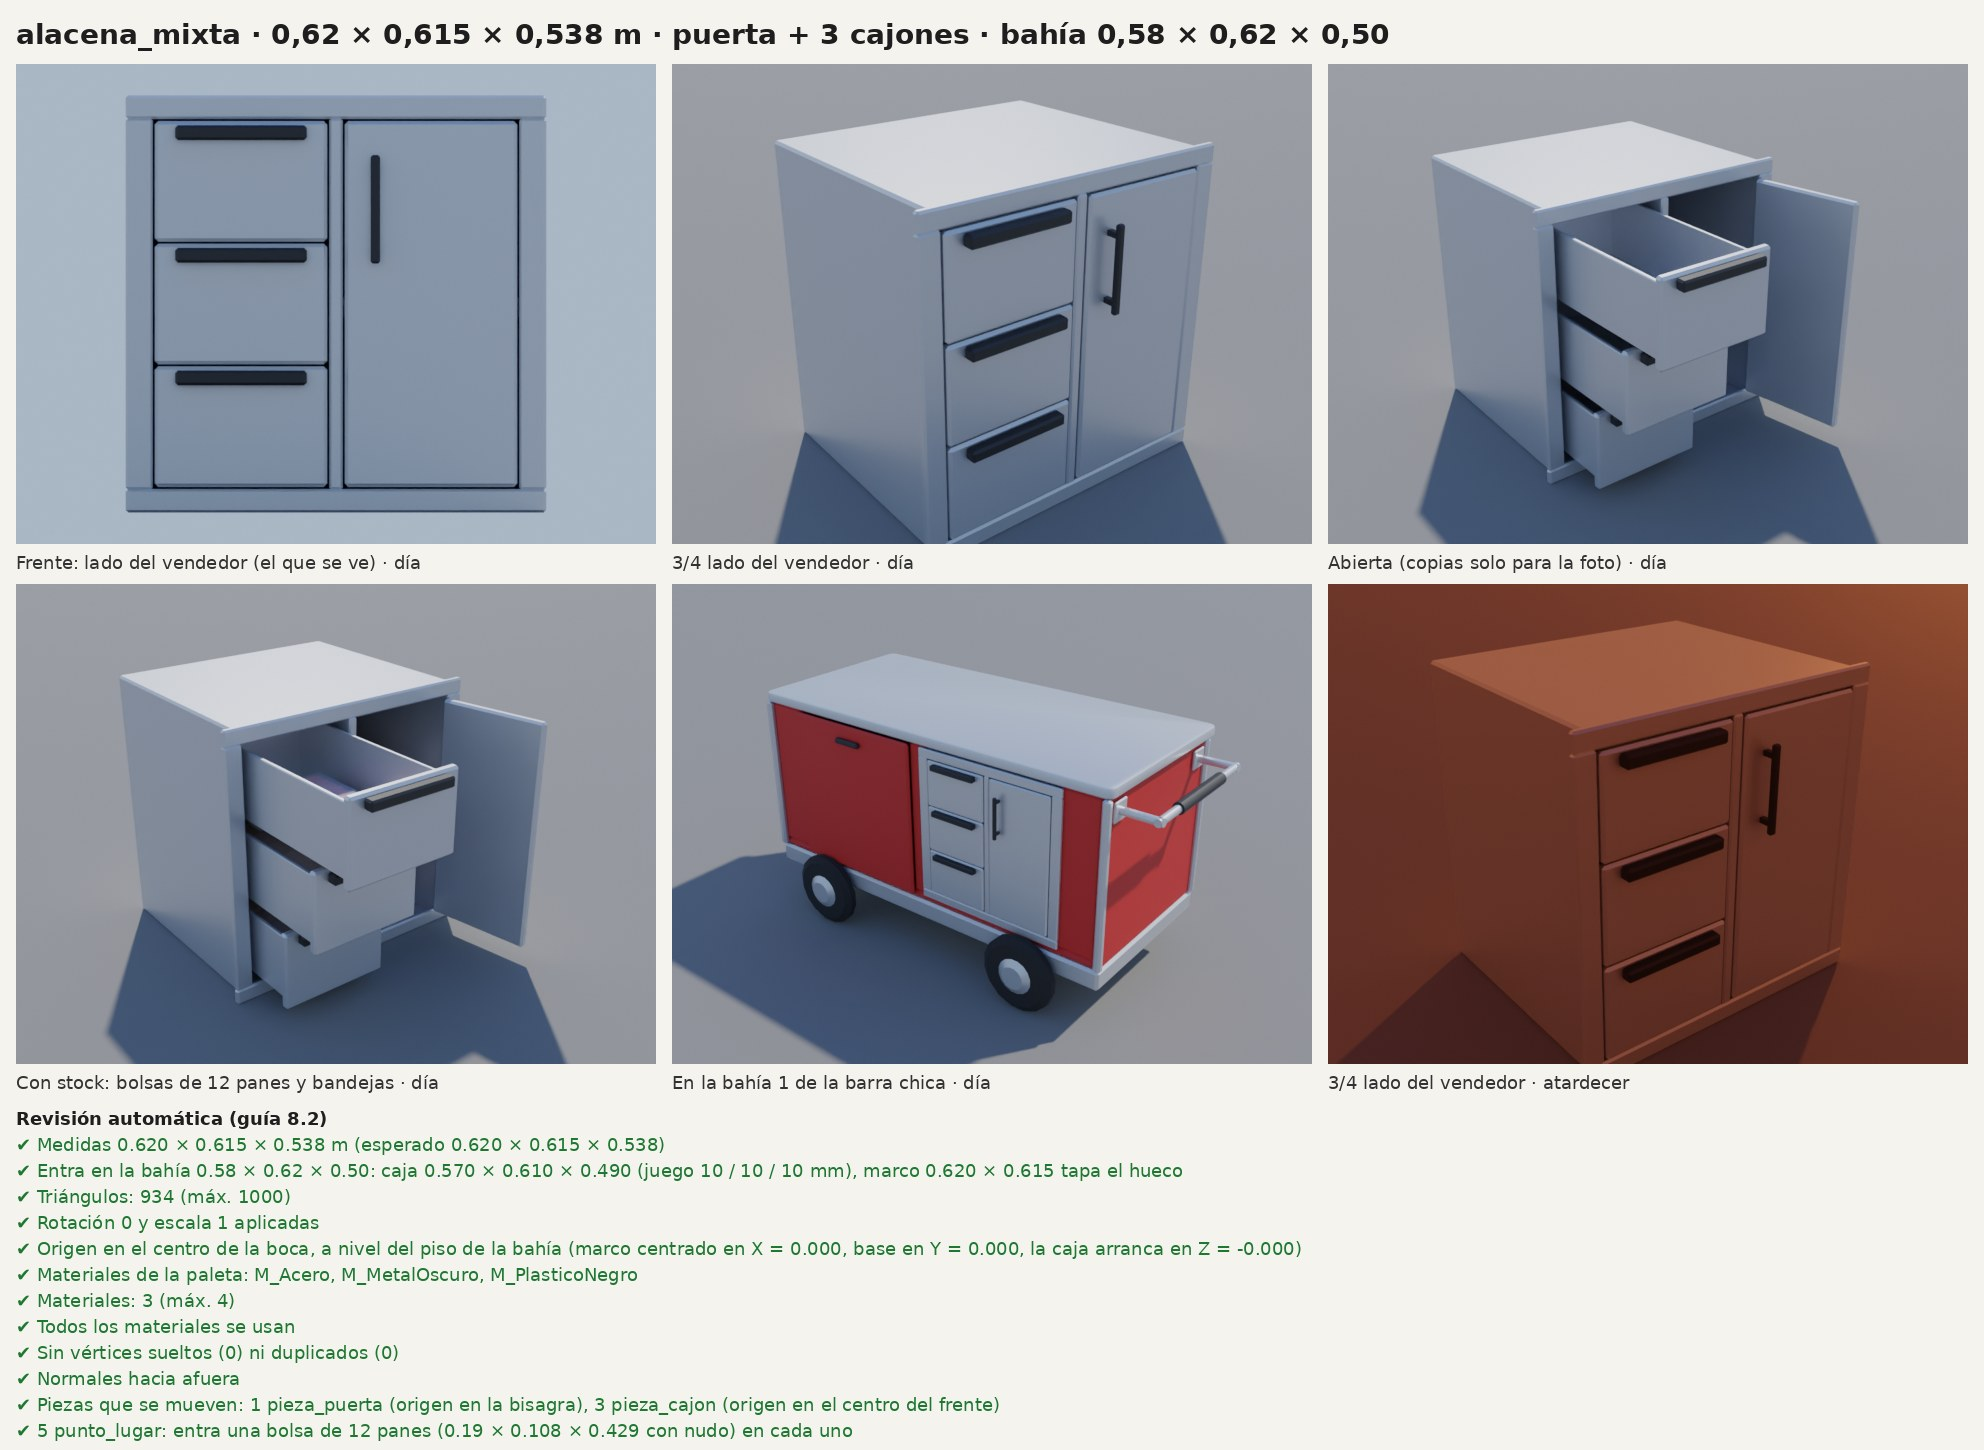
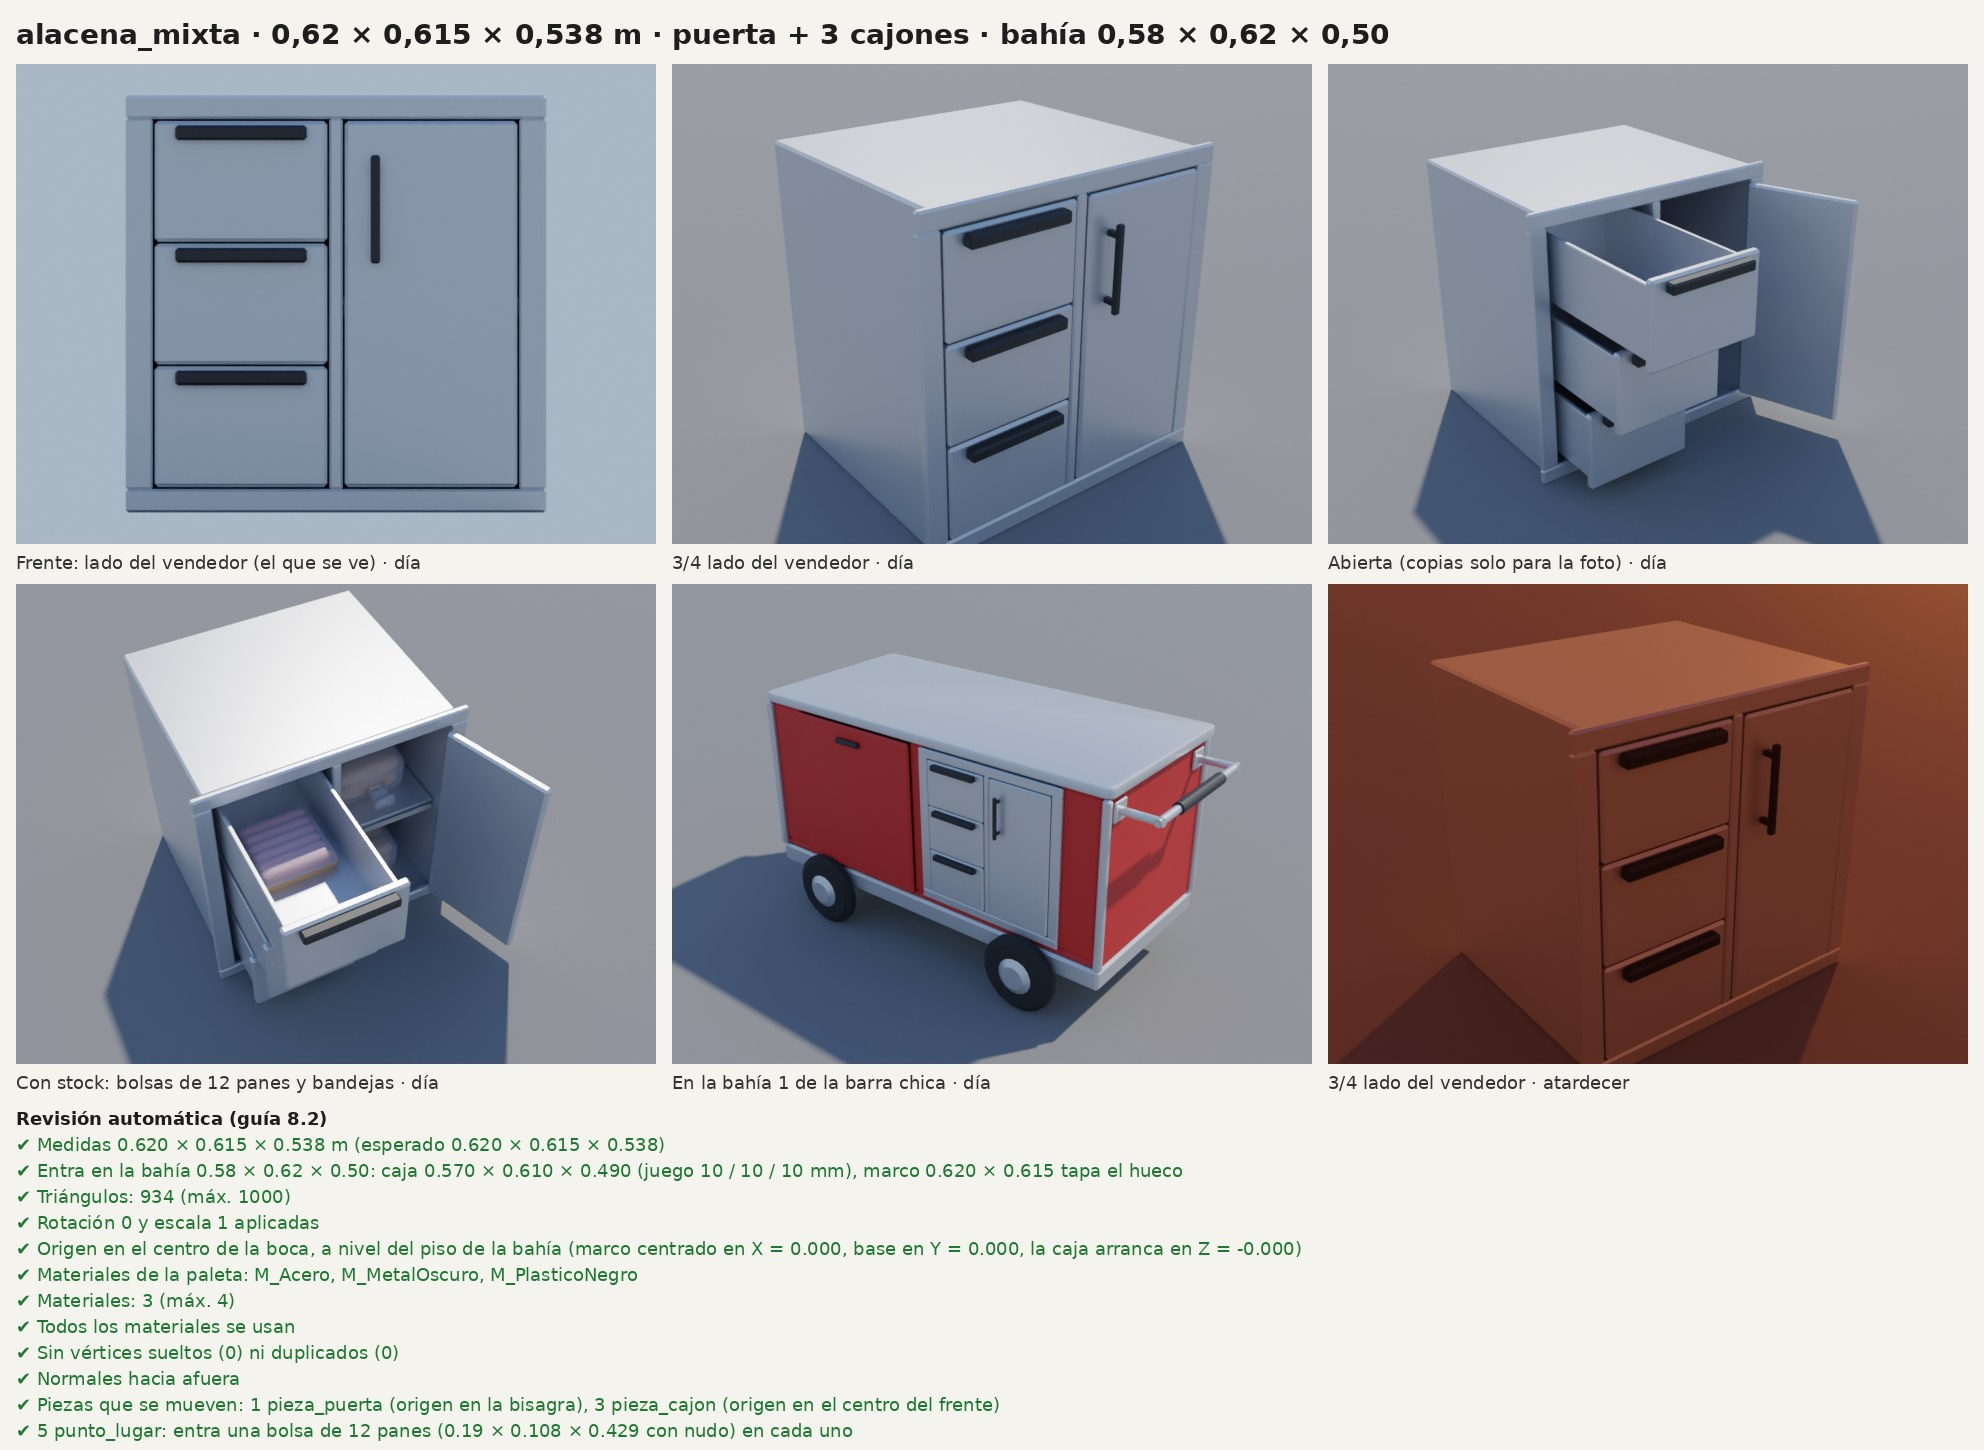
Techos y toldos de carrito en tres tamaños
techo_plano, techo_dos_aguas, techo_curvo, marquesina, toldo_rayado,
toldo_enrollable y toldo_frente; partidos en punta + tramo + punta para
un futuro tamaño dinámico.

Claude-Session: https://claude.ai/code/session_01HjM8QSzeKUircBU4mCxhsR

diff --git a/docs/arte/lista-de-modelos.md b/docs/arte/lista-de-modelos.md
@@ -218,19 +218,19 @@ cuerpo + cabeza + pelo + ropa + accesorio, y de cambiar colores.
 
 ### Techos y toldos para los carritos (`accesorios/`)
 
-⚠ Pedido nuevo. Se enganchan en el anclaje `techo` (categoría Carpa, como `carpa_2x2`) o en el `frente` (toldos). Los techos van sobre parantes propios y tienen que cubrir la mesada: como las bases miden distinto, cada techo tiene **tres tamaños** con sufijo `_chico` (barra chica, ≈ 1,7 m de ancho), `_mediano` (barra mediana, ≈ 2,5 m) y `_grande` (carro grande, ≈ 3,5 m); la tabla da el chico. Lona y chapa sin colisión; parantes con `-colonly`. Colores por material (guía 4.2, regla 5): el paño o la chapa como `pieza_` con superficies para las rayas, como `pieza_pano` de la sombrilla. **Para que el juego los use hace falta una spec** (tamaños por base y la categoría Toldo, si se separa de Carpa).
+⚠ Pedido nuevo. Se enganchan en el anclaje `techo` (categoría Carpa, como `carpa_2x2`) o en el `frente` (toldos). Los techos van sobre parantes propios y tienen que cubrir la mesada: como las bases miden distinto, cada techo tiene **tres tamaños** con sufijo `_chico` (barra chica, ≈ 1,7 m de ancho), `_mediano` (barra mediana, ≈ 2,5 m) y `_grande` (carro grande, ≈ 3,5 m); la tabla da el chico. Lona y chapa sin colisión; parantes con `-colonly`. Colores por material (guía 4.2, regla 5): el paño o la chapa como `pieza_` con superficies para las rayas, como `pieza_pano` de la sombrilla. **Para que el juego los use hace falta una spec** (tamaños por base y la categoría Toldo, si se separa de Carpa). Choques a tener en cuenta en esa spec: la sombrilla choca con cualquier techo (tienen que excluirse); los toldos van en el `frente`, igual que el telón (hace falta otro anclaje o permitir dos accesorios ahí).
 
 **A futuro, tamaño dinámico:** más adelante el juego podría estirar techos y toldos a cualquier ancho. Para no tener que rehacerlos, se arman desde ya con un script **parametrizado por ancho** (los tres tamaños salen del mismo código) y, dentro del `.glb`, separados en **punta izquierda + tramo del medio + punta derecha** (`pieza_punta_izq`, `pieza_tramo`, `pieza_punta_der`), con el tramo del medio hecho de forma que se pueda estirar o repetir a lo largo de X sin deformar las rayas ni los festones (las rayas van a lo largo de Z, o el tramo mide un múltiplo del ancho de una raya).
 
 | ID | Objeto | Medidas | Tris | Materiales | Notas | Prio. | Estado |
 |---|---|---|---|---|---|---|---|
-| `techo_plano` | Techo plano de chapa sobre 4 caños | ≈ 1,7 × 2,3 × 1,0 | 1.500 | MetalOscuro, Acero, PinturaCarrito | Chapa plana con borde pintado y un faldón al frente (como el carrito de la foto de referencia). 4 caños de acero desde el piso o desde la mesada. Tubo de luz debajo (`punto_luz`). Tres tamaños. | P2 | Pendiente |
-| `techo_dos_aguas` | Techo de chapa a dos aguas | ≈ 1,8 × 2,5 × 1,1 | 1.500 | MetalOscuro, Acero, PinturaCarrito | Chapa a dos aguas con alero, estilo puesto de feria. Tres tamaños. | P3 | Pendiente |
-| `techo_curvo` | Techo curvo de chapa | ≈ 1,8 × 2,4 × 1,1 | 1.500 | MetalOscuro, Acero, PinturaCarrito | Chapa curva en arco, estilo food truck clásico. Tres tamaños. | P3 | Pendiente |
-| `toldo_rayado` | Toldo rebatible | ≈ 1,6 × 0,4 × 0,8 | 800 | Acero, RojoAcento, BlancoCrema | Lona rayada sobre brazos articulados, inclinada hacia el cliente. Tres tamaños. | P2 | Pendiente |
-| `toldo_enrollable` | Toldo enrollable con faldón | ≈ 1,6 × 0,5 × 1,0 | 800 | Acero, PlasticoNegro, RojoAcento / BlancoCrema / AzulAcento | Caja de enrollado pegada al techo o a los parantes, lona desplegada con faldón festoneado y manivela. Tres tamaños. | P2 | Pendiente |
-| `toldo_frente` | Toldito fijo de frente | ≈ 1,6 × 0,3 × 0,4 | 400 | Acero, RojoAcento / BlancoCrema | Alerito corto sobre el mostrador, del lado del cliente, sin parantes (va en el anclaje `frente` o colgado de la mesada). Tres tamaños. | P3 | Pendiente |
-| `marquesina` | Techo con cartel al frente | ≈ 1,7 × 2,4 × 1,0 | 1.500 | MetalOscuro, Acero, Amarillo, LuzCalida | Techo plano con un cartel frontal grande (texto en imagen, guía 4.5) y lamparitas de emisión. Tres tamaños. | P3 | Pendiente |
+| `techo_plano` | Techo plano de chapa sobre 4 caños | 1,70 / 2,50 / 3,50 × 1,33 × 1,04–1,54 | 1.500 | MetalOscuro, PinturaCarrito, Acero, LuzCalida | Chapa oscura de 4 cm con borde pintado (sigue el color del carrito) y faldón al frente hasta 2,12 m, sobre 4 caños parados en la mesada (no tocan ruedas, manija ni al vendedor). Tubo de luz `pieza_luz` escondido detrás del faldón y colgadores con `punto_foco_N` en cada `luz_N`, así el foco cuelga del techo. Ancho = base + 10 cm. Partido en punta izq + tramo estirable + punta der. Archivos `techo_plano_chico/_mediano/_grande`. Hecho por código: `tools/blender/modelos/techo_plano.py` (chico/mediano/grande: 800/876/876 tris). [Hoja de revisión](revisiones/techo_plano.jpg). | P2 | Hecho |
+| `techo_dos_aguas` | Techo de chapa a dos aguas | 1,71 / 2,51 / 3,51 × 1,50–1,57 × 1,10–1,60 | 1.500 | MetalOscuro, PinturaCarrito, Acero | Chapa a 25° con aleros a 2,14 m, cumbrera y frontones pintados, sobre 4 caños parados en la mesada; colgadores para el foco. Tramo estirable. Hecho por código: `tools/blender/modelos/techo_dos_aguas.py` (chico/mediano/grande: 744/820/820 tris). [Hoja de revisión](revisiones/techo_dos_aguas.jpg). | P3 | Hecho |
+| `techo_curvo` | Techo curvo de chapa | 1,71 / 2,51 / 3,51 × 1,40–1,42 × 1,12–1,62 | 1.500 | MetalOscuro, PinturaCarrito, Acero | Chapa en arco (food truck) con aleros a 2,16 m y arcos pintados en las puntas, sobre 4 caños parados en la mesada; colgadores para el foco. Tramo estirable. Hecho por código: `tools/blender/modelos/techo_curvo.py` (chico/mediano/grande: 1048/1124/1124 tris). [Hoja de revisión](revisiones/techo_curvo.jpg). | P3 | Hecho |
+| `toldo_rayado` | Toldo rebatible | 1,6 / 2,4 / 3,4 × 1,70 × 0,82 | 800 | RojoAcento, BlancoCrema, Acero, PlasticoNegro | Toldo de brazos agarrado al frente con dos mástiles (abajo de la mesada, afuera del telón). Lona rayada de 2,10 a 1,85 m con un festón por raya, sale 0,81 m (el cliente de 1,75 pasa abajo). Rojo y crema; liso o azul por superficies. Entra debajo de cualquier techo. El tramo se repite de a módulos de 2 rayas. Hecho por código: `tools/blender/modelos/toldo_rayado.py` (chico/mediano/grande: 628/772/916 tris). [Hoja de revisión](revisiones/toldo_rayado.jpg). | P2 | Hecho |
+| `toldo_enrollable` | Toldo enrollable con faldón | ancho de la base × 1,73 × 0,99 | 800 | Acero, PlasticoNegro, RojoAcento / BlancoCrema / AzulAcento | Caja de enrollado con tapas negras arriba de dos mástiles, lona casi plana hasta 0,99 m (hace sombra a la fila), faldón festoneado, brazos y manivela. Azul y crema; rojo o liso por superficies. Entra debajo de cualquier techo. Tramo repetible. Hecho por código: `tools/blender/modelos/toldo_enrollable.py` (chico/mediano/grande: 788/920/1052 tris). [Hoja de revisión](revisiones/toldo_enrollable.jpg). | P2 | Hecho |
+| `toldo_frente` | Toldito fijo de frente | ancho de la base × 0,27 × 0,28 | 400 | RojoAcento, BlancoCrema, Acero | Alerito rayado colgado debajo de la mesada, del lado del cliente, sin parantes. Sale 0,27 m y los festones terminan arriba del telón (0,74 m). Sin colisión. Tramo repetible. Hecho por código: `tools/blender/modelos/toldo_frente.py` (chico/mediano/grande: 384/516/648 tris). [Hoja de revisión](revisiones/toldo_frente.jpg). | P3 | Hecho |
+| `marquesina` | Techo con cartel al frente | 1,70 / 2,50 / 3,50 × 1,44–1,49 × 1,07–1,57 | 1.500 | MetalOscuro, Acero, LuzCalida + cartel `T_marquesina_<tamaño>` | El techo plano con un tablero de 2,12 a 2,44 m y un cartel "PANCHOS" con filete (imagen, guía 4.5: texto fijo) entre dos filas de lamparitas (`pieza_lamparitas`, se prenden de noche) y `punto_luz`. Cartel y lamparitas aparte y centrados (no se estiran). Si el jugador tiene que poder ponerle nombre al puesto, el cartel pasa a ser una `pieza_` en blanco como la pizarra. Hecho por código: `tools/blender/modelos/marquesina.py` (chico/mediano/grande: 1140/1408/1600 tris). [Hoja de revisión](revisiones/marquesina.jpg). | P3 | Hecho |
 
 ---
 
